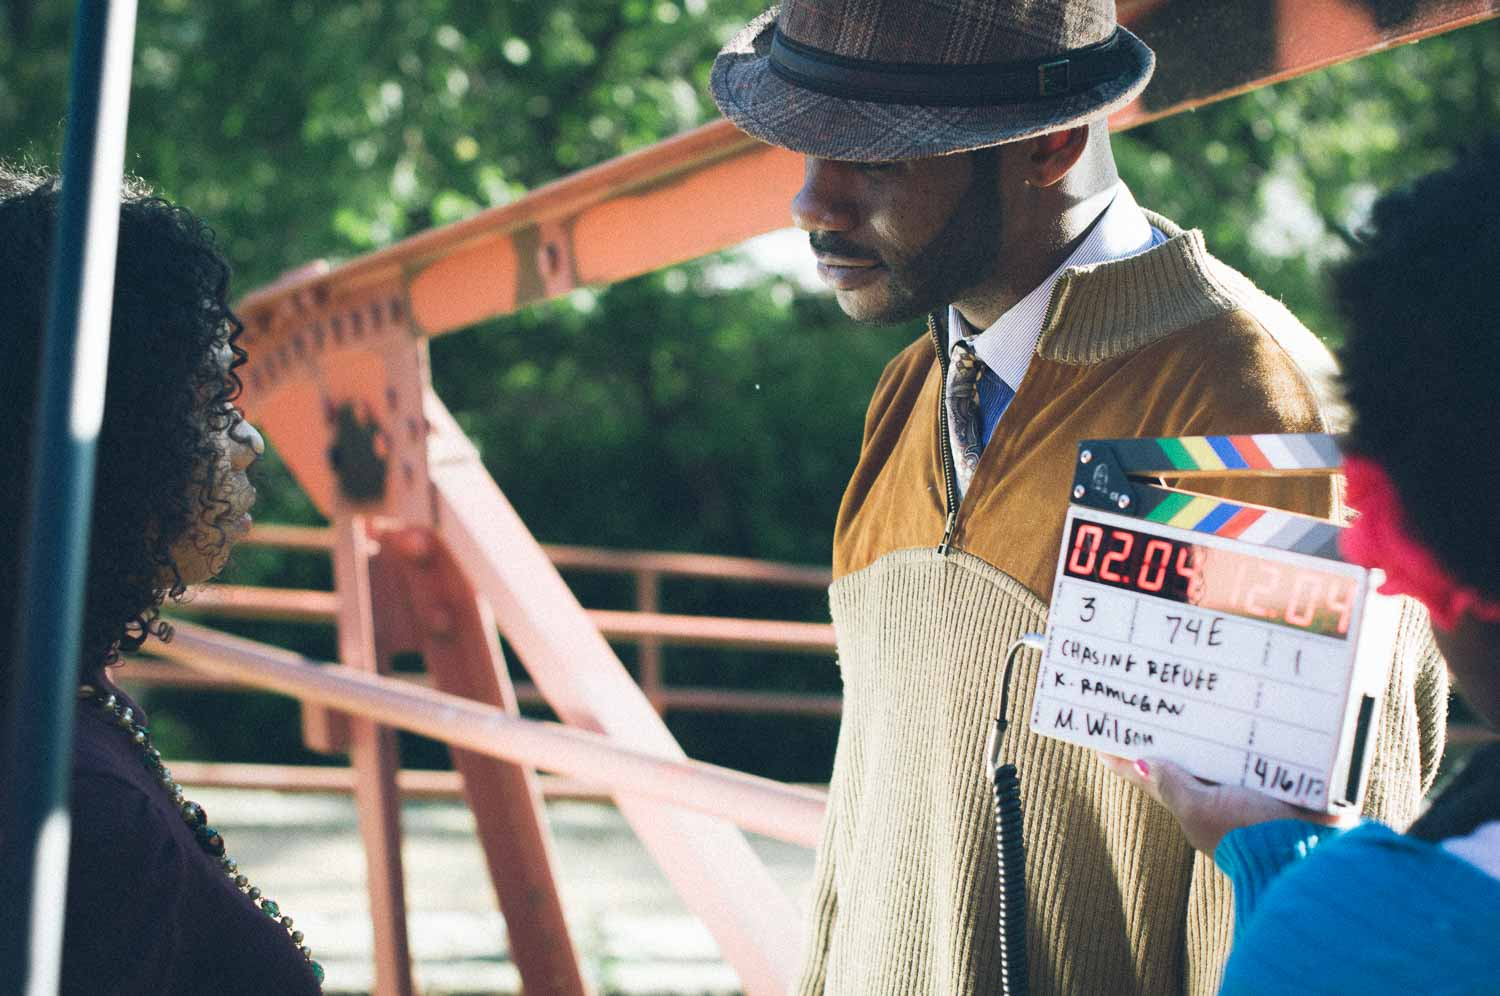
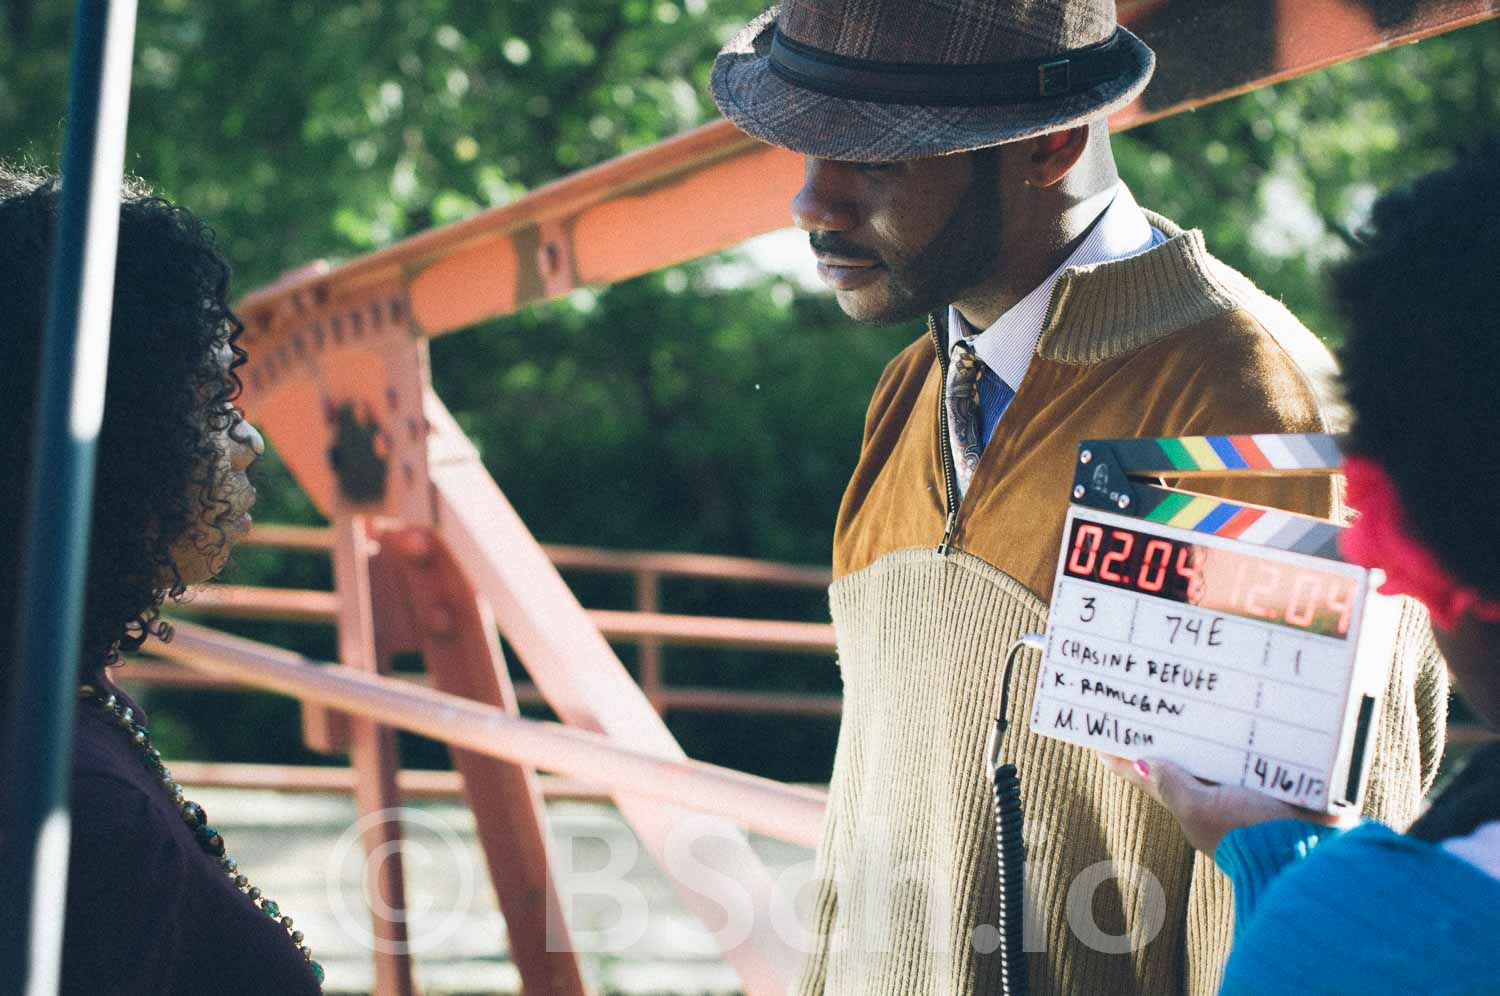
added watermark

Changed region(s): [[0.3373, 0.8092, 0.7973, 0.996], [0.2147, 0.8092, 0.276, 0.9649]]

diff --git a/index.html b/index.html
@@ -169,9 +169,9 @@
 
   <div class="l-container">
     <div class="row">
+      <div class="col-xs-12 col-sm-6"><img alt="" src="images/photo/fashion/fashion-1.jpg"></div>
       <div class="col-xs-12 col-sm-6"><img alt="" src="images/photo/fashion/fashion-2.jpg"></div>
-      <div class="col-xs-12 col-sm-6"><img alt="" src="images/photo/fashion/fashion-3.jpg"></div>
-      <div class="col-xs-12"><img alt="" src="images/photo/fashion/fashion-4.jpg" class="fashion-img"></div>   
+      <div class="col-xs-12"><img alt="" src="images/photo/fashion/fashion-3.jpg" class="fashion-img"></div>   
     </div>
 
     <div class="row">
